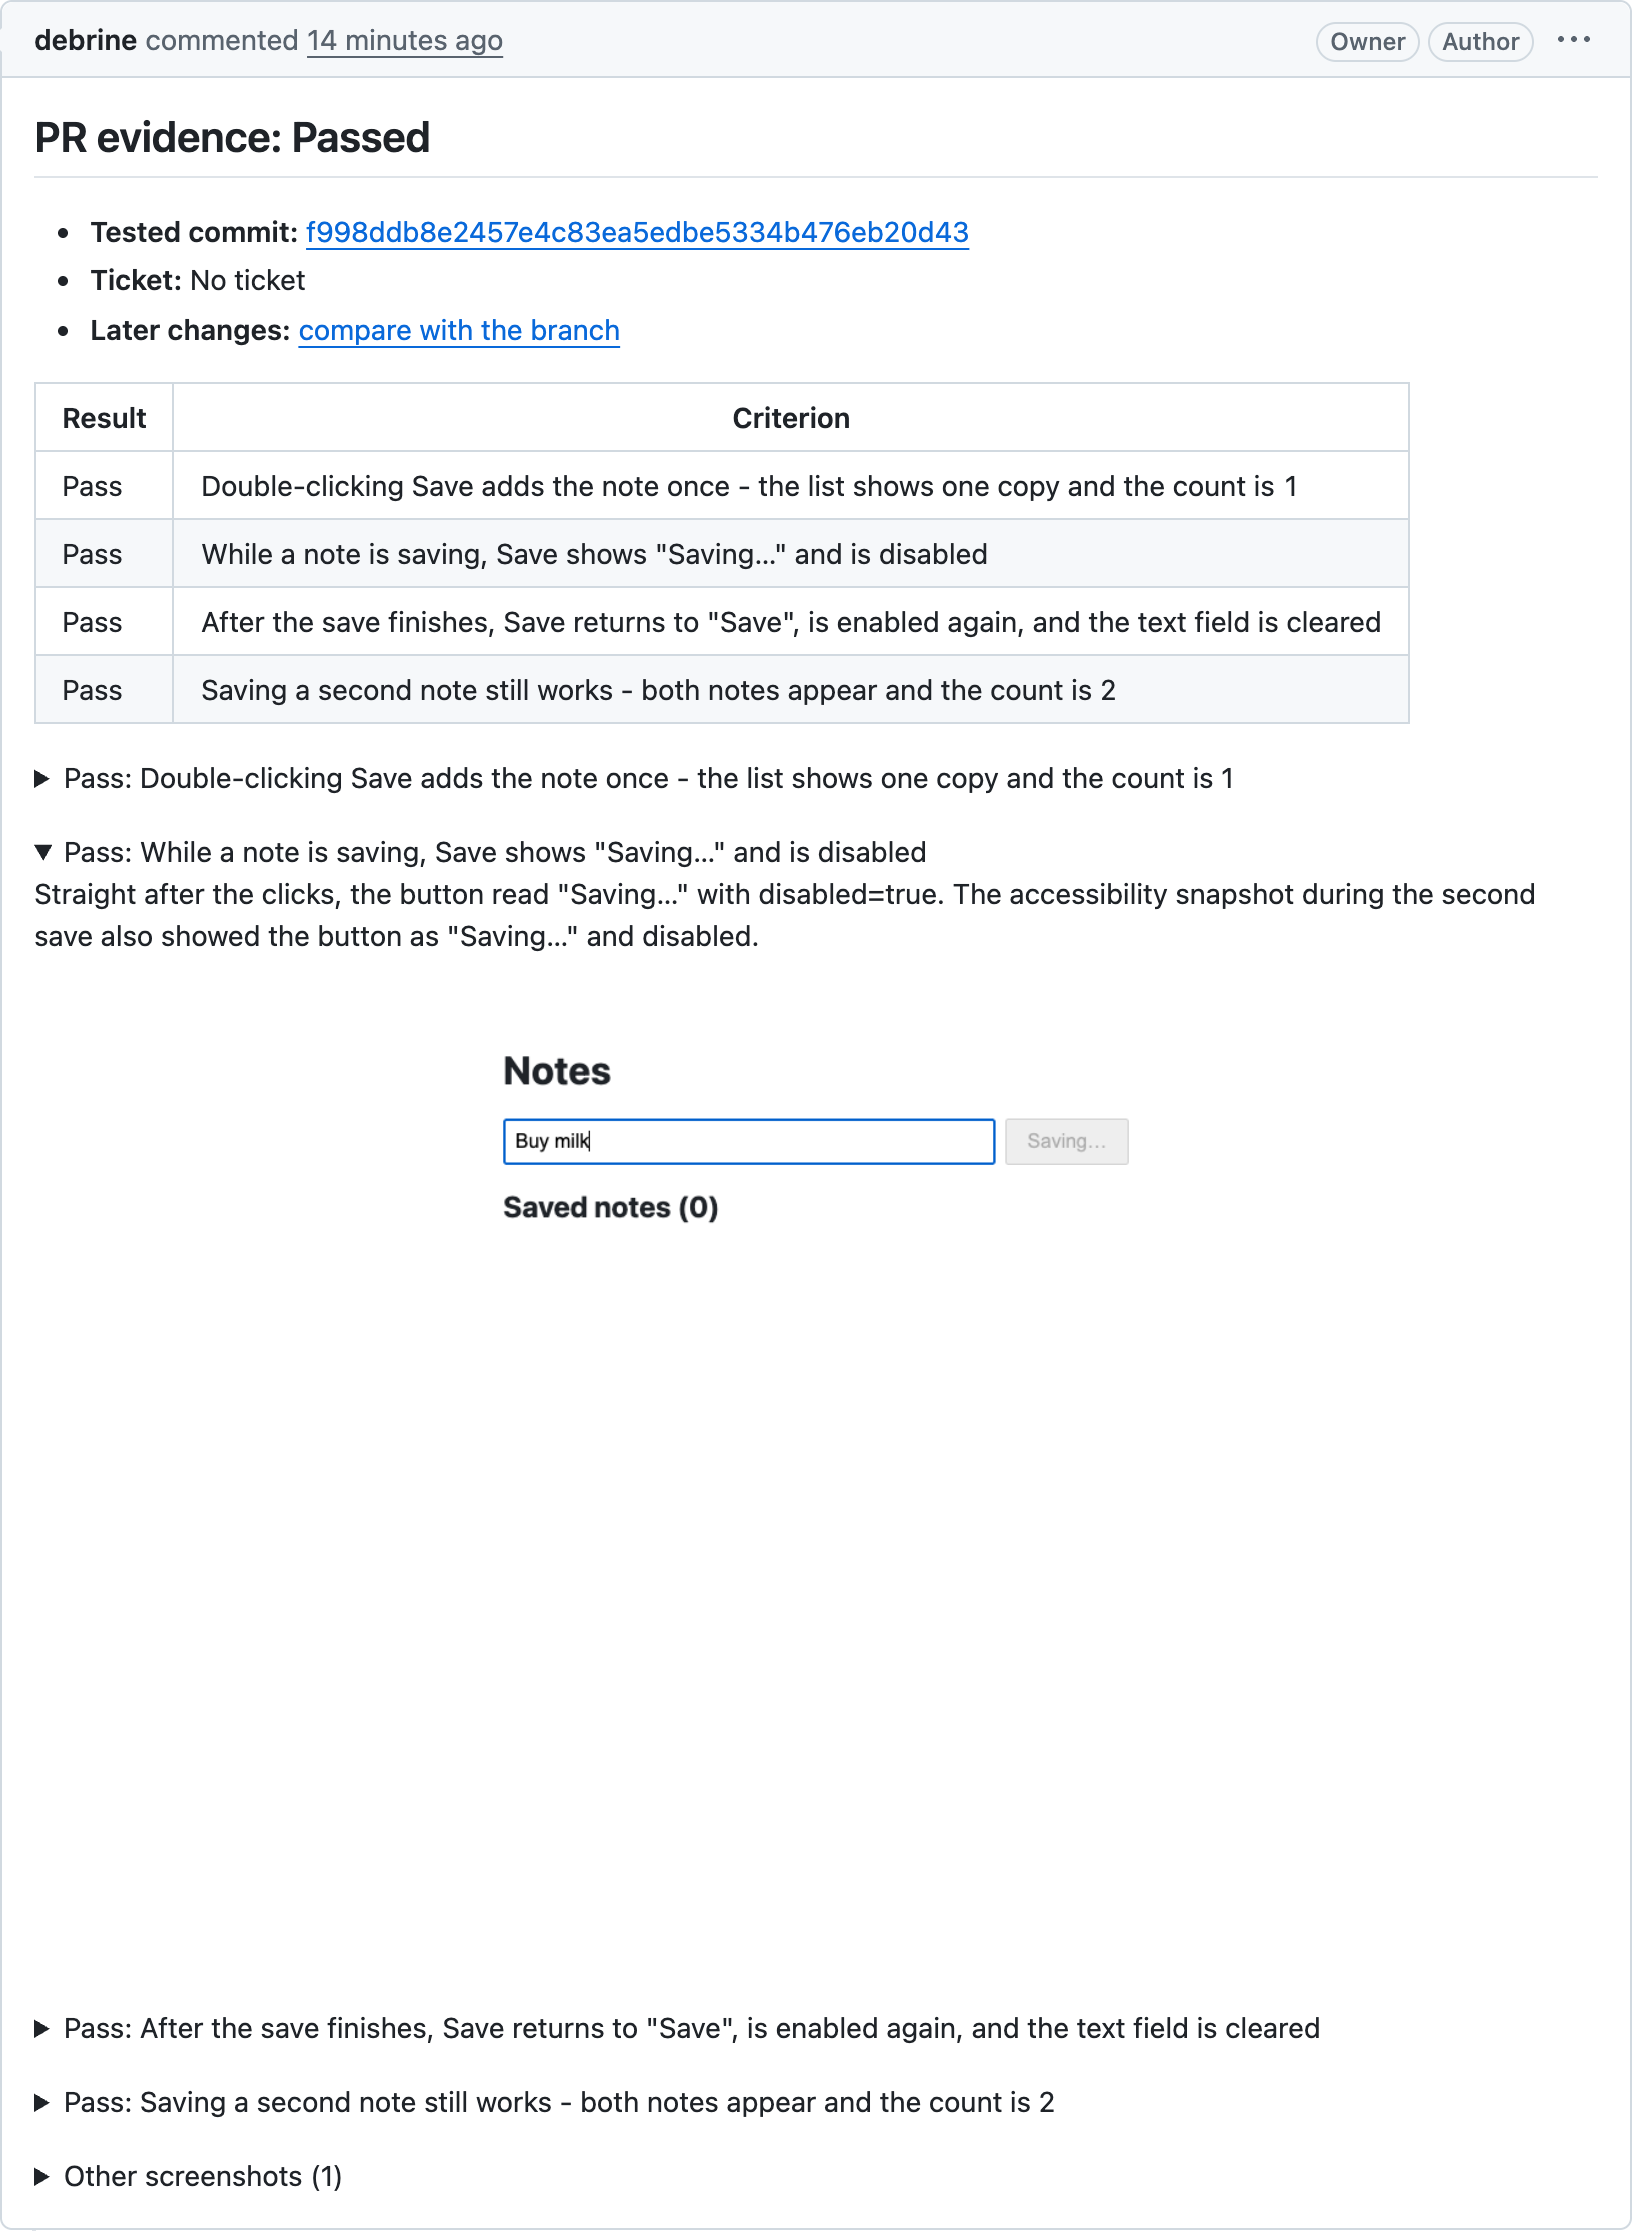
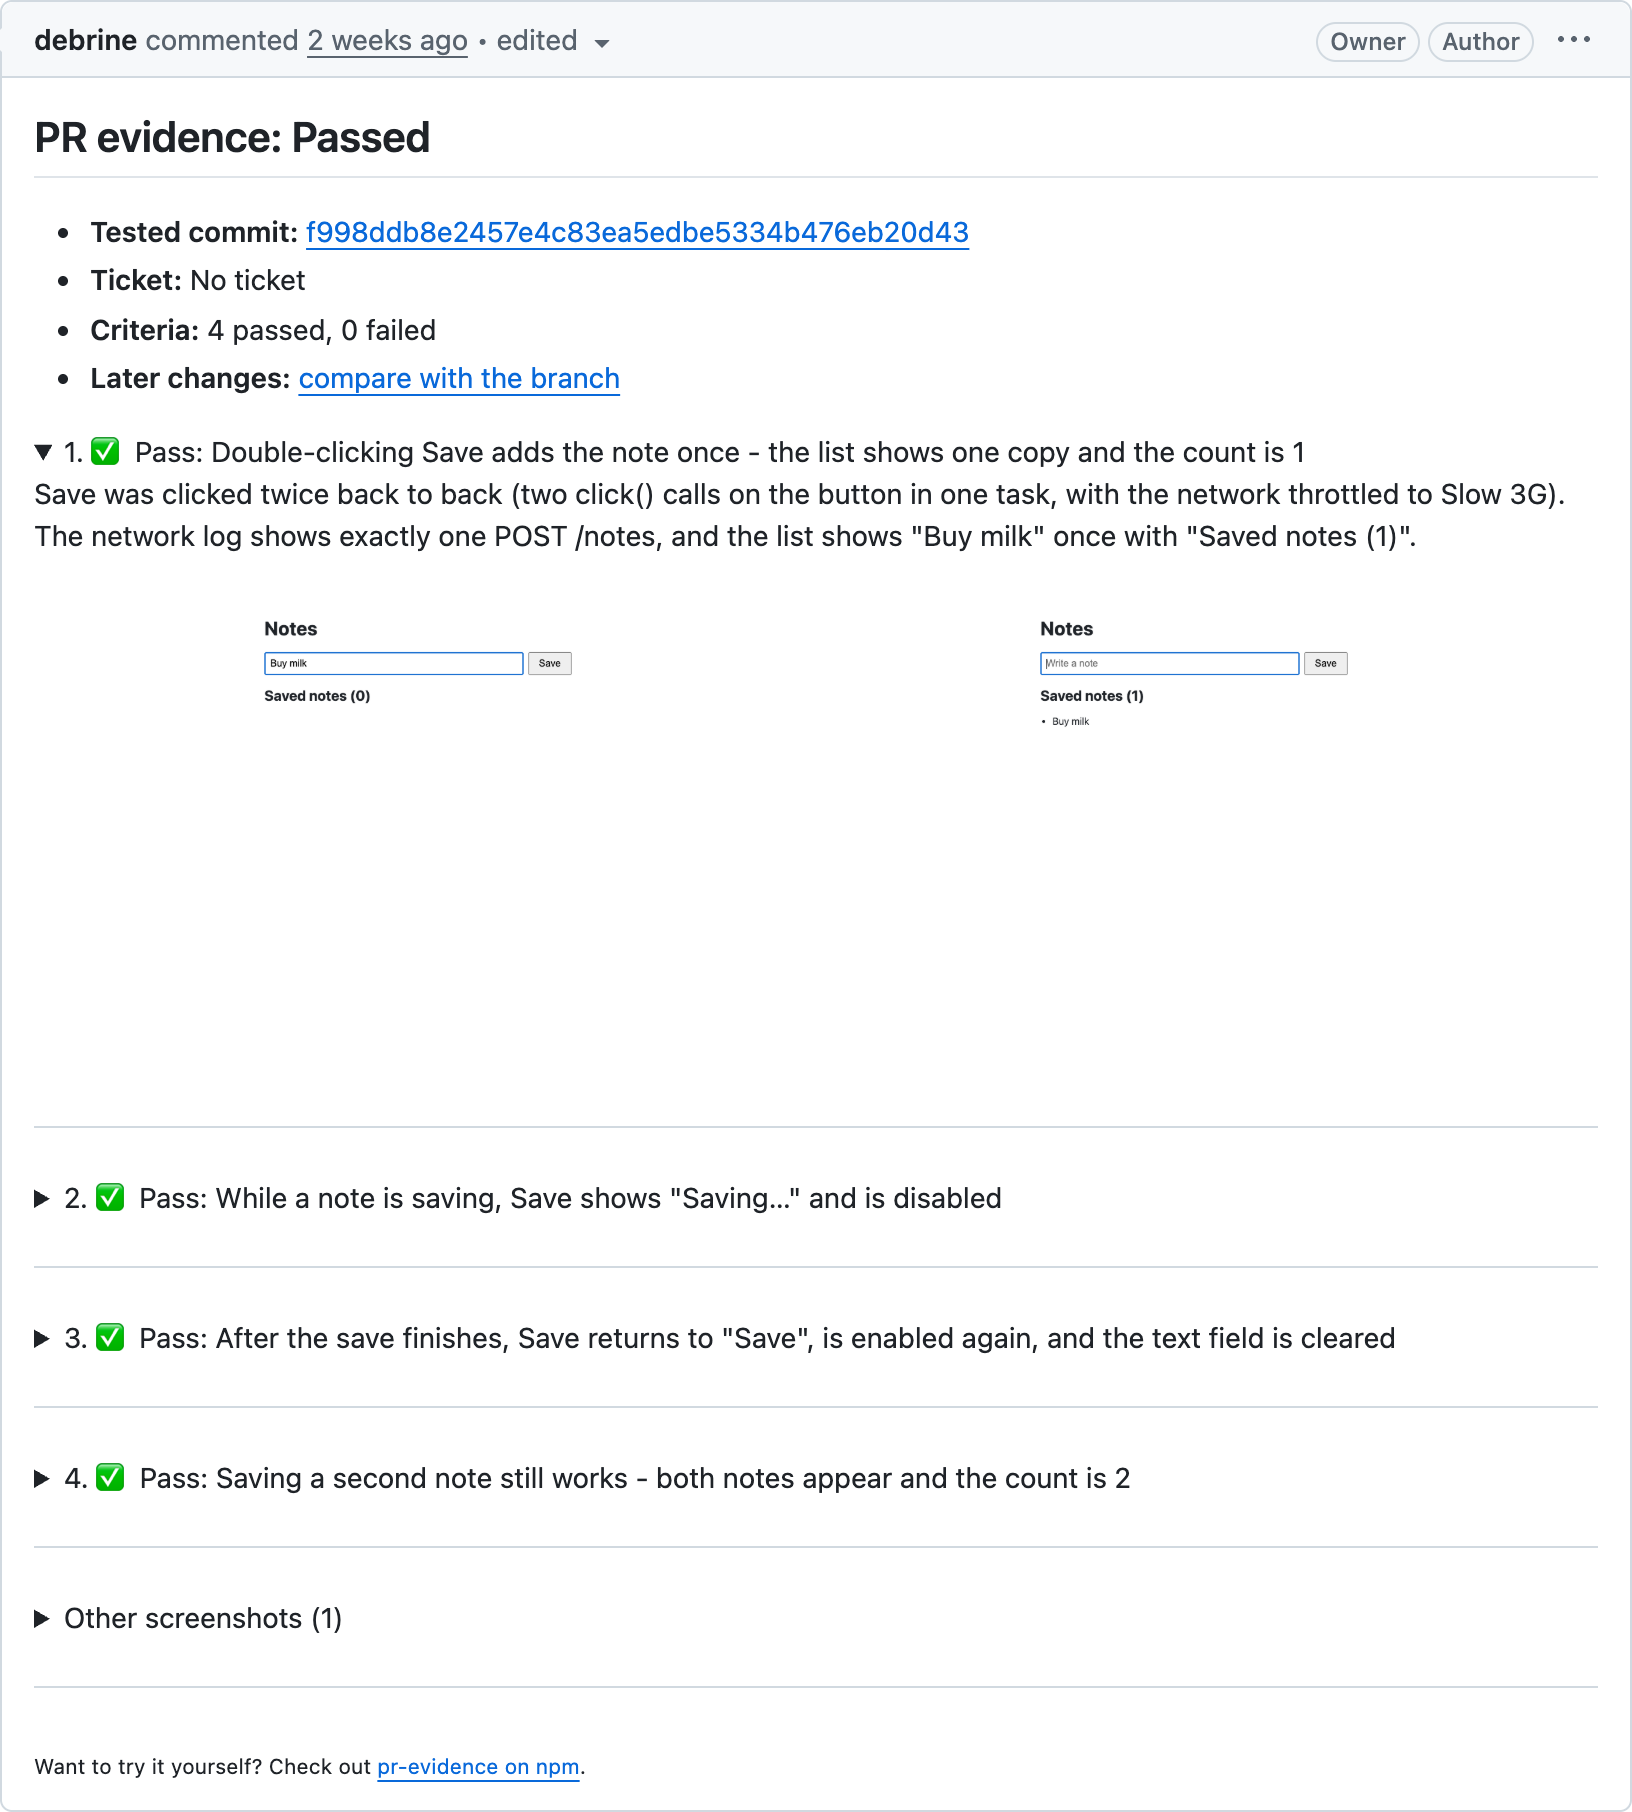
Refresh the README screenshot for the compact comment
Republished the demo PR's evidence with the new layout and captured it
again, with the first criterion open to show its thumbnails.

Claude-Session: https://claude.ai/code/session_01PgD6Hz3QqBZC8CX6PRibPZ

diff --git a/README.md b/README.md
@@ -2,7 +2,7 @@
 
 Your coding agent tests a branch in a real browser and posts each criterion it checked, with the screenshots that prove it, on its pull request.
 
-[![The evidence comment pr-evidence posted on a demo pull request: a passing result, a table of criteria and a section of screenshots for each criterion](https://github.com/debrine/pr-evidence/raw/main/docs/images/evidence-comment.png)](https://github.com/debrine/pr-evidence-demo/pull/1)
+[![The evidence comment pr-evidence posted on a demo pull request: a passing result with a count of passed and failed criteria, then each criterion numbered and marked Pass, the first one open to show its note and screenshot thumbnails side by side](https://github.com/debrine/pr-evidence/raw/main/docs/images/evidence-comment.png)](https://github.com/debrine/pr-evidence-demo/pull/1)
 
 This comment was posted from a real run on [a demo pull request](https://github.com/debrine/pr-evidence-demo/pull/1) that fixes a double-clicked Save adding a note twice.
 
